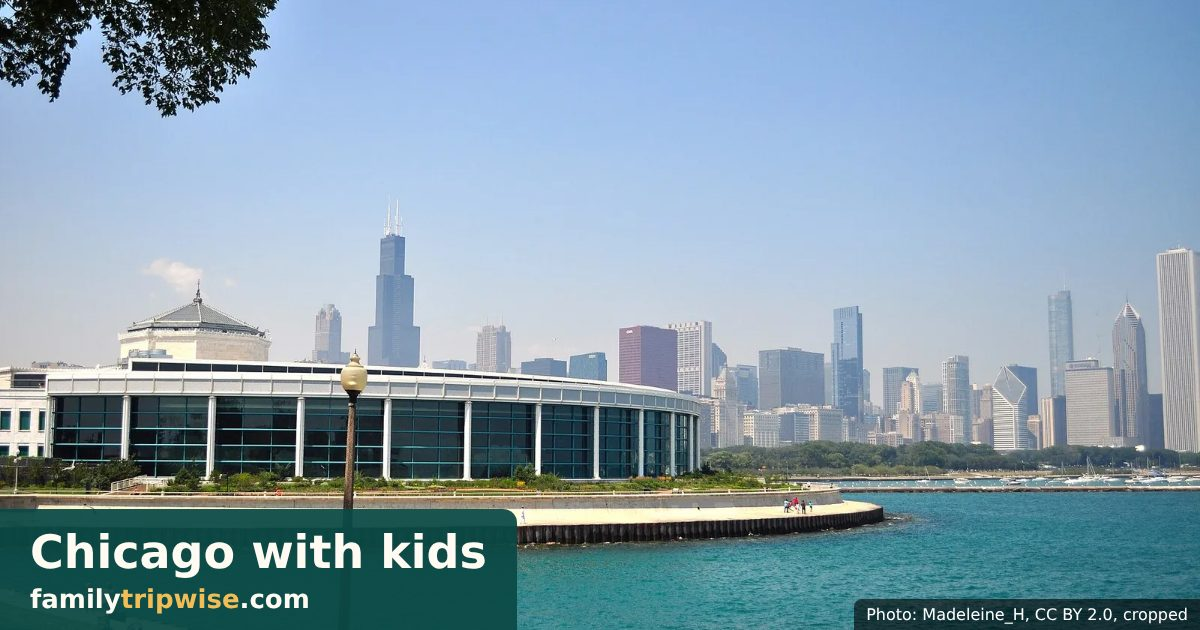
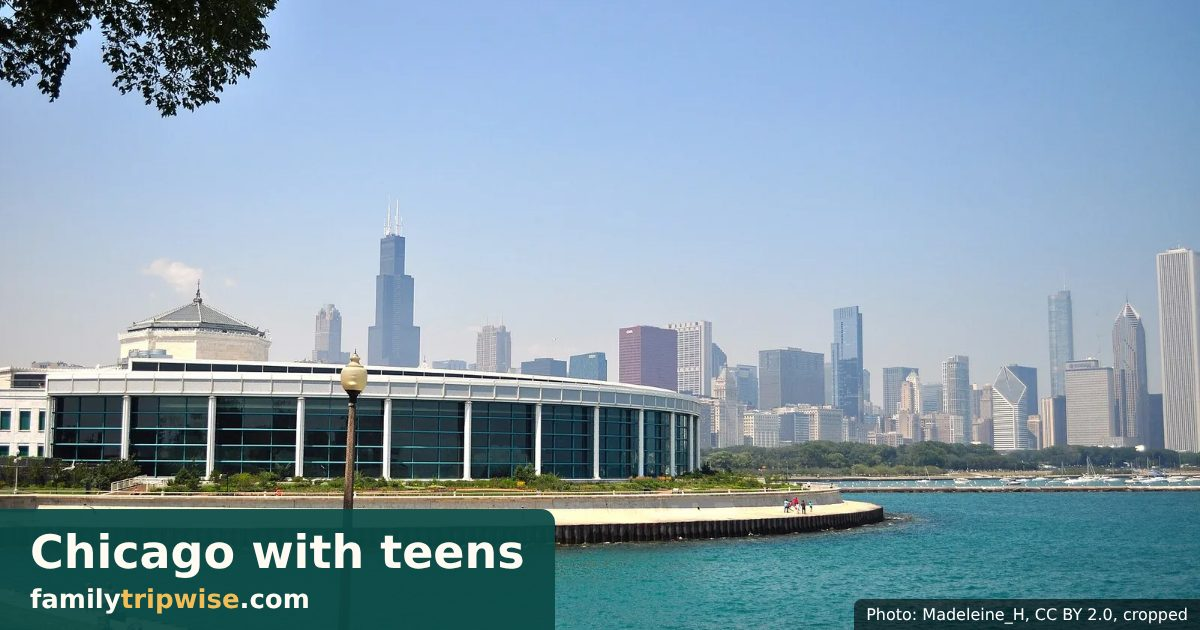
Q21: Chicago teens sources list the CC BY 2.0 licence; teen photo link cards say "with teens"
Claude-Session: https://claude.ai/code/session_018uWk6uVn39Jao59Zjudehu

Changed region(s): [[0.3083, 0.7841, 0.4625, 1.0]]

diff --git a/site/things-to-do/chicago-with-teens.html b/site/things-to-do/chicago-with-teens.html
@@ -235,7 +235,7 @@
           <li><a href="https://www.secondcity.com/faqs">Second City theater FAQ</a></li>
           <li><a href="https://www.choosechicago.com/articles/families/top-10-chicago-must-dos-with-teens-or-tweens-2/">Choose Chicago activities for teens or tweens</a></li>
           <li><a href="https://commons.wikimedia.org/wiki/File:The_Shedd_Aquarium_-_7714039518.jpg">Shedd Aquarium lakefront photo source and license</a></li>
-          <li><a href="https://creativecommons.org/licenses/by-sa/3.0/">CC BY-SA 3.0 license</a></li>
+          <li><a href="https://creativecommons.org/licenses/by/2.0/">CC BY 2.0 license</a></li>
         </ul>
       </section>
 
